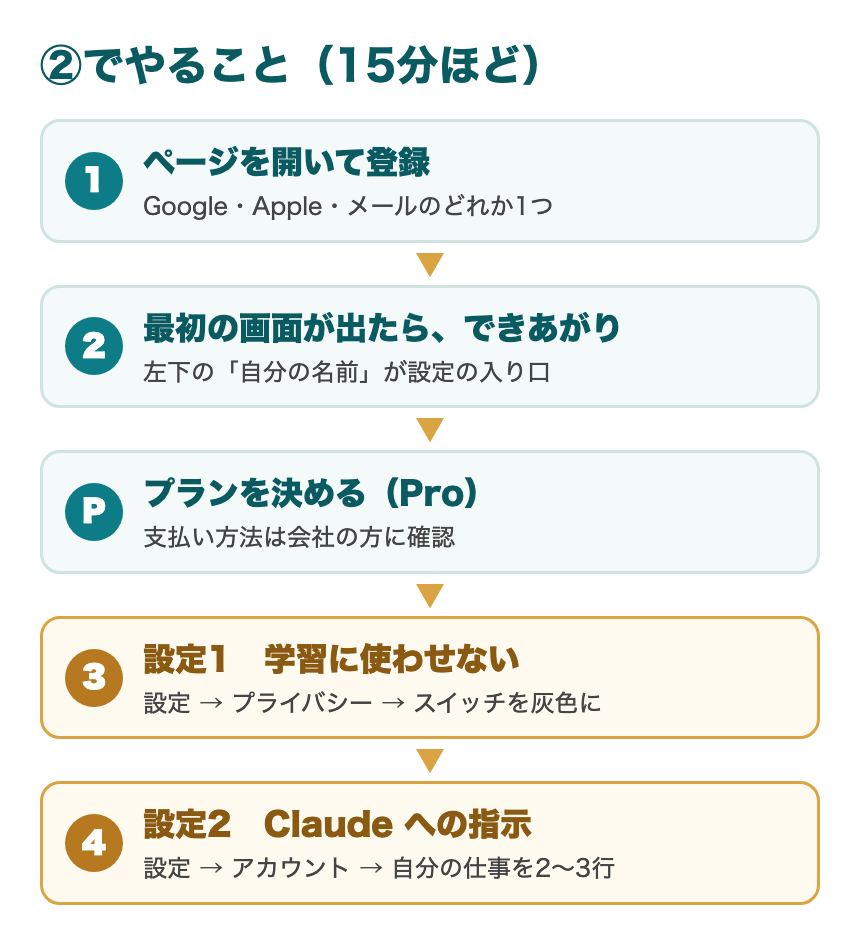
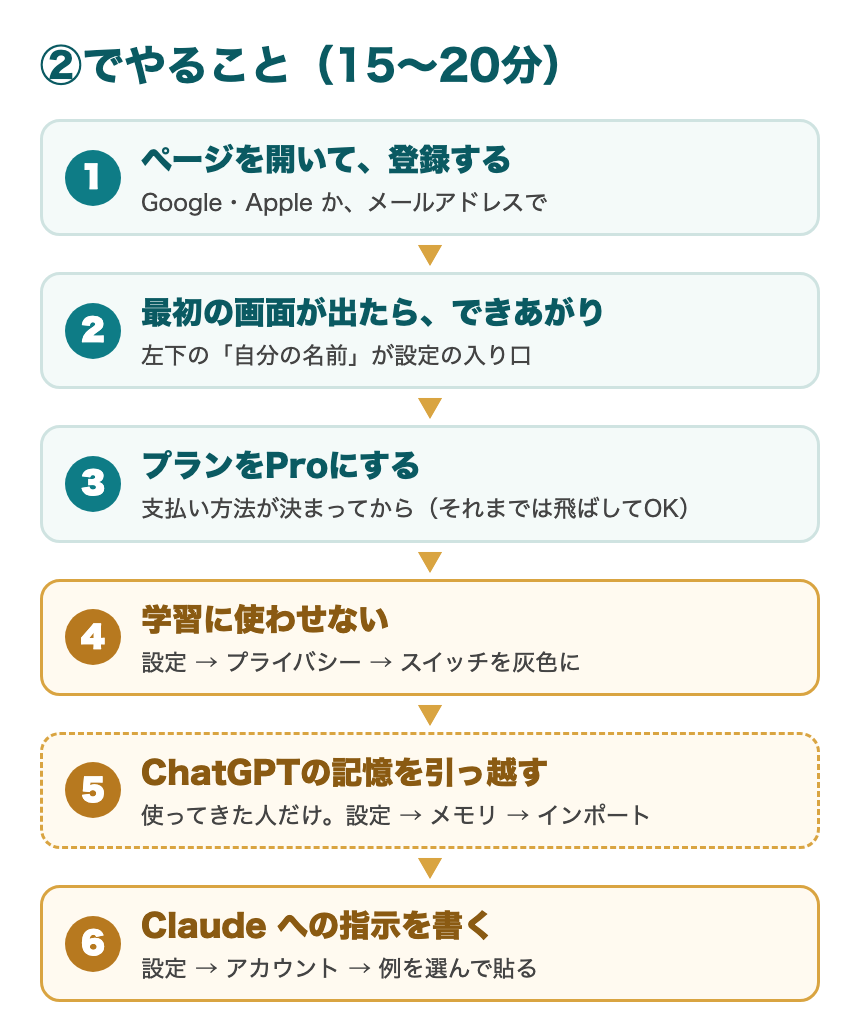
第0回 丁寧版：画面写真（モデル・プラン・使用量・メモリ引っ越し・コネクタ）と本文

Changed region(s): [[0.0302, 0.031, 0.9674, 0.9925]]

diff --git a/kenshu0/src/ch2.html b/kenshu0/src/ch2.html
@@ -1,4 +1,4 @@
-<p>📱 スマホで読んでいる方へ：このページの作業は<strong>パソコンで</strong>。パソコンでの開き方は①の「スマホで見ている方へ」にあります。</p><h2>このページでやること（15分ほど）</h2><ul><li><p>Claudeのアカウントを作る（手順1・2）</p></li><li><p>プランを決める（研修は有料のProを使います）</p></li><li><p>最初にしておく設定を2つ（手順3・4）</p></li></ul><p>MacでもWindowsでも同じ手順です。ブラウザ（Chrome・Edge・Safariなど）で進めます。<strong>作業はパソコンで</strong>どうぞ。写真はMacの画面ですが、Windowsでもボタンの場所と名前は同じです。</p><figure><img src="https://mm738966m-boop.github.io/ai-aibou-shindan/kenshu0/img/fig2b.png"></figure><h2>はじめに：どのメールアドレスで作る？</h2><ul><li><p><strong>仕事で使っているメールアドレス</strong>がおすすめです。研修の後半で、仕事のメールや予定表とClaudeをつなぐことがあり、個人のアドレスだとつなげないことがあります</p></li><li><p>会社がまとめて契約する（会社から「招待メール」が届く）と決まっている場合は、その招待メールから作ります。分からなければ、仕事のアドレスで作っておけば大丈夫です</p></li></ul><h2>手順1　ページを開いて登録する</h2><p>下のリンクを押します。</p><p><a href="https://claude.ai/login">https://claude.ai/login</a></p><figure><img src="https://mm738966m-boop.github.io/ai-aibou-shindan/kenshu0/img/z_login.png"></figure><p>ボタンは3つありますが、登録のしかたは2通り。<strong>どちらか1つ</strong>を選びます。<strong>Gmailを持っていない人・会社のメールがOutlookの人は、Bへ</strong>。</p><h3>A．Google か Apple のアカウントで（ふだんそれでログインしている人）</h3><ol><li><p>「Googleで続ける」または「Appleで続ける」を押す</p></li><li><p>使うアカウントを選ぶ（パスワードを聞かれたら、そのアカウントのものを入れる）→ 手順2へ</p></li></ol><h3>B．メールアドレスで（会社のメールがOutlookの人など。迷ったらこちら）</h3><ol><li><p>「メールアドレスを入力」の欄にアドレスを入れて、「メールで続ける」を押す</p></li><li><p>いつものメールソフト（Outlook・Gmailなど）を開く。Claudeからメールが届きます（件名に「Claude」）</p></li><li><p>メールに<strong>ボタンがあれば押す</strong>。<strong>6桁の番号だけ</strong>が書いてあれば、Claudeの画面に戻って、その番号を入れる → 手順2へ</p></li></ol><p>※ メールが来ないとき：迷惑メールのフォルダを見る → 無ければ5分待って、もう一度「メールで続ける」。</p><h2>手順2　名前を入れて、最初の画面が出たらできあがり</h2><ol><li><p>名前を聞かれたら、ふだんの名前（例：山田 花子）</p></li><li><p>電話番号の確認を求められたら、ショートメール（SMS）が届く携帯の番号を入れ、届いた番号を入れる。会社の携帯でも自分の携帯でもOK（本人確認のためで、ほかの人に表示されることはありません）</p></li><li><p>利用規約が出たら「同意する」</p></li></ol><figure><img src="https://mm738966m-boop.github.io/ai-aibou-shindan/kenshu0/img/z_first.png"></figure><ul><li><p><strong>❶ 入力欄</strong>：ここに話しかけます（③で使います）</p></li><li><p><strong>❷ 左下の自分の名前</strong>：このあとの設定は、ぜんぶここから入ります</p></li></ul><h2>プランを決める（Pro）</h2><p>研修では<strong>有料の「Pro」</strong>を使います。ただし<strong>支払い方法が決まるまでは、押さなくて大丈夫</strong>です。無料のままでも、このページの設定と③の練習、④のアプリを入れるところまでできます。</p><ul><li><p><strong>会社の方に確認する人</strong>：経費を決める方（上司・総務・経理など）に、「AI研修で使うClaudeのProプラン（月22ドル・月払い）を、会社のカードにするか、立て替えて精算にするか」を聞いてください</p></li><li><p><strong>ご自身が決める立場の人</strong>（代表の方など）：そのまま進めてOKです</p></li></ul><p><strong>料金（2026年11月時点）</strong></p><ul><li><p><strong>Pro：月22ドル（月払い）</strong>。日本円でおよそ月3,000円台（為替で変わります）。<strong>研修はこれで十分</strong>。最初は月払いがおすすめです</p></li><li><p>年払いにすると月18ドル分（220ドルを1年分まとめて先払い）</p></li><li><p>Free（無料）／Max（月110ドル〜・1日中使う人向け）もあります。料金ページの細かい項目（「新着」など）は気にしなくて大丈夫です。料金ページの「Claude を試す」ボタンは、押してもすぐに支払いにはなりません</p></li></ul><figure><img src="https://mm738966m-boop.github.io/ai-aibou-shindan/kenshu0/img/z_pricing.png"></figure><p><strong>Proにする手順</strong>（支払い方法が決まってから）</p><ol><li><p>左下の自分の名前を押す</p></li><li><p>「アップグレード」または「すべてのプランを表示」を押す（表示はどちらかです）</p></li></ol><figure><img src="https://mm738966m-boop.github.io/ai-aibou-shindan/kenshu0/img/z_menu_plan.png"></figure><ol start="3"><li><p>「Pro」を選び、<strong>月払い</strong>を選んで、クレジットカードを入れる（カード番号は、ご自身でこの画面に入れてください）</p></li></ol><p>最新の料金は <a href="https://claude.com/ja/pricing">https://claude.com/ja/pricing</a> で確認できます。会社でまとめて契約するプラン（Team）もあります。</p><h2>手順3　設定その1：話した内容を、AIの学習に使わせない</h2><p>仕事の話をする前に、ここだけは済ませておきます。</p><ol><li><p>左下の自分の名前を押す →「<strong>設定</strong>」を押す</p></li></ol><figure><img src="https://mm738966m-boop.github.io/ai-aibou-shindan/kenshu0/img/z_menu_settings.png"></figure><ol start="2"><li><p>左の列の「<strong>プライバシー</strong>」を押す</p></li><li><p>「<strong>AI モデルの改善に協力する</strong>」のスイッチを見る。<strong>青ならクリックして灰色に</strong>。灰色ならそのままでOK</p></li></ol><figure><img src="https://mm738966m-boop.github.io/ai-aibou-shindan/kenshu0/img/z_privacy.png"></figure><p>（スイッチの所を大きくすると↓）</p><figure><img src="https://mm738966m-boop.github.io/ai-aibou-shindan/kenshu0/img/z_privacy_m.png"></figure><p>※ すぐ上の「位置情報メタデータ」のスイッチは、触らなくて大丈夫です。</p><h2>手順4　設定その2：「Claude への指示」に、自分のことを書く</h2><p>書いておくと、毎回説明しなくても話が通じるようになります。</p><ol><li><p>設定の左の列の「<strong>アカウント</strong>」を押す</p></li><li><p>「<strong>Claude への指示</strong>」の欄を見つける（上にある「氏名」や「職種」の欄は、触らなくてOK）</p></li><li><p>下の4つの例から、<strong>自分にいちばん近いものを1つ選び</strong>、灰色の枠の右上の「コピー」を押す → 「Claude への指示」の欄をクリック → 貼り付け（Windowsは Ctrl＋V、Macは command＋V）</p></li><li><p>違う所があれば、そこだけ直す（<strong>そのままでも大丈夫</strong>です。あとからいつでも直せます）</p></li><li><p>欄の外をクリックすると保存されます。右上の × で閉じ、<strong>もう一度開いて文が残っていれば保存できています</strong></p></li></ol><figure><img src="https://mm738966m-boop.github.io/ai-aibou-shindan/kenshu0/img/z_account.png"></figure><p>（書き込んだあとの欄を大きくすると↓）</p><figure><img src="https://mm738966m-boop.github.io/ai-aibou-shindan/kenshu0/img/z_account_m.png"></figure><h3>例：経理</h3><pre><code>小さな会社で、
+<p>📱 スマホで読んでいる方へ<br>このページの作業は<strong>パソコンで</strong>やります。<br>パソコンでの開き方は、①の「スマホで見ている方へ」にあります。</p><h2>このページでやること（15〜20分）</h2><figure><img src="https://mm738966m-boop.github.io/ai-aibou-shindan/kenshu0/img/fig2b.png"></figure><ol><li><p>手順1　ページを開いて、登録する</p></li><li><p>手順2　最初の画面が出たら、アカウントのできあがり</p></li><li><p>手順3　プランをProにする</p></li><li><p>手順4　話した内容を、AIの学習に使わせない</p></li><li><p>手順5　ChatGPT・Geminiの記憶を、引っ越す<br>（使ってきた人だけ）</p></li><li><p>手順6　「Claude への指示」に、自分のことを書く</p></li></ol><p>MacでもWindowsでも、同じ手順です。<br>写真はMacの画面ですが、Windowsでもボタンの場所と名前は同じです。</p><h2>はじめに：どのメールアドレスで作る？</h2><p><strong>仕事で使っているメールアドレス</strong>がおすすめです。<br>研修の後半で、仕事のメールや予定表とClaudeをつなぐことがあります。<br>個人のアドレスだと、あとでつなげないことがあります。</p><p>会社から「招待メール」が届く予定の人は、その招待メールから作ります。<br>分からなければ、仕事のアドレスで作っておけば大丈夫です。</p><h2>手順1　ページを開いて、登録する</h2><p>下のリンクを押します。</p><p><a href="https://claude.ai/login">https://claude.ai/login</a></p><p>こんな画面が出ます。</p><figure><img src="https://mm738966m-boop.github.io/ai-aibou-shindan/kenshu0/img/z_login.png"></figure><p>登録のしかたは2通り。<strong>どちらか1つ</strong>を選びます。<br>下の「デスクトップアプリをダウンロード」は、<strong>今は押しません</strong>（④でやります）。</p><h3>A．Google か Apple で続ける</h3><p>ふだんGoogle（Gmail）かAppleのアカウントでログインしている人向けです。</p><ol><li><p>「Googleで続ける」か「Appleで続ける」を押す</p></li><li><p>使うアカウントを選ぶ<br>（パスワードを聞かれたら、そのアカウントのパスワードを入れる）</p></li><li><p>手順2へ</p></li></ol><h3>B．メールアドレスで続ける</h3><p><strong>Gmailを持っていない人・会社のメールがOutlookの人は、こちら</strong>。<br>迷ったら、こちらでOKです。</p><ol><li><p>「メールアドレスを入力」の欄を押して、アドレスを入れる</p></li><li><p>黒い「メールで続ける」のボタンを押す</p></li><li><p>いつものメール（Outlook・Gmailなど）を開く<br>Claudeからメールが届いています（件名に「Claude」）</p></li><li><p>メールの中に<strong>ボタンがあれば、押す</strong><br><strong>6桁の番号だけ</strong>が書いてあれば、Claudeの画面に戻って、その番号を入れる</p></li><li><p>手順2へ</p></li></ol><p>※ メールが来ないとき<br>迷惑メールのフォルダを見る → 無ければ5分待って、もう一度「メールで続ける」。</p><h2>手順2　最初の画面が出たら、できあがり</h2><p>途中で聞かれたら、画面のとおりに答えます。</p><ul><li><p><strong>名前</strong>：ふだんの名前（例：山田 花子）</p></li><li><p><strong>電話番号</strong>：ショートメール（SMS）が届く携帯の番号を入れ、届いた番号を入れる<br>会社の携帯でも、自分の携帯でもOK<br>（本人確認のためで、ほかの人に表示されることはありません）</p></li><li><p><strong>利用規約</strong>：「同意する」を押す</p></li></ul><p>この画面が出たら、アカウントのできあがりです。</p><figure><img src="https://mm738966m-boop.github.io/ai-aibou-shindan/kenshu0/img/z_first.png"></figure><p><strong>❶ 真ん中の入力欄</strong><br>ここに話しかけます（③で使います）。</p><p><strong>❷ 左下の自分の名前</strong><br>このあとの設定は、ぜんぶ<strong>ここを押して</strong>始めます。</p><h2>手順3　プランをProにする</h2><p>研修では<strong>有料の「Pro（プロ）」</strong>を使います。</p><p><strong>支払い方法が決まるまでは、ここは飛ばしてOK</strong>です。<br>無料のままでも、手順4〜6と③の練習、④のアプリを入れる所までできます。</p><h3>先に確かめること</h3><ul><li><p><strong>会社の方に確認する人</strong><br>経費を決める方（上司・総務・経理など）に、こう聞いてください。<br>「AI研修で使うClaudeのProプラン（月22ドル・月払い）を、会社のカードにしますか、立て替えて精算にしますか」</p></li><li><p><strong>ご自身が決める立場の人</strong>（代表の方など）<br>そのまま進めてOKです</p></li></ul><h3>料金（2026年11月時点）</h3><figure><img src="https://mm738966m-boop.github.io/ai-aibou-shindan/kenshu0/img/z_pricing.png"></figure><ul><li><p><strong>Pro：月22ドル（月払い）</strong><br>日本円でおよそ月3,000円台（為替で変わります）<br><strong>研修はこれで十分</strong>。最初は月払いがおすすめです</p></li><li><p>年払いにすると、月18ドル分（220ドルを1年分まとめて先払い）</p></li><li><p>写真の料金表は説明用です。<strong>料金表の「Claude を試す」は押さなくてOK</strong></p></li></ul><h3>Proにする手順</h3><ol><li><p>左下の自分の名前を押す</p></li><li><p>「アップグレード」か「すべてのプランを表示」を押す<br>（どちらか一方が出ています）</p></li></ol><figure><img src="https://mm738966m-boop.github.io/ai-aibou-shindan/kenshu0/img/z_menu_plan.png"></figure><ol start="3"><li><p>「Pro」を選ぶ</p></li><li><p>「月払い」を選ぶ</p></li><li><p>クレジットカードの番号を入れて、申し込む<br>（カード番号は、ご自身でこの画面に入れてください）</p></li><li><p>左下の名前の横が「Pro」になれば、完了</p></li></ol><h2>手順4　話した内容を、AIの学習に使わせない</h2><p>仕事の話をする前に、<strong>ここだけは必ず</strong>済ませておきます。</p><ol><li><p>左下の自分の名前を押す</p></li><li><p>出てきた一覧の「<strong>設定</strong>」を押す</p></li></ol><figure><img src="https://mm738966m-boop.github.io/ai-aibou-shindan/kenshu0/img/z_menu_settings.png"></figure><ol start="3"><li><p>設定の画面が開いたら、左の列の「<strong>プライバシー</strong>」を押す</p></li><li><p>右側の「<strong>AI モデルの改善に協力する</strong>」のスイッチを見る</p></li></ol><figure><img src="https://mm738966m-boop.github.io/ai-aibou-shindan/kenshu0/img/z_privacy.png"></figure><ol start="5"><li><p>スイッチが<strong>青なら、クリックして灰色に</strong>する<br>もう<strong>灰色なら、そのままでOK</strong></p></li></ol><p>（スイッチの所を大きくすると↓）</p><figure><img src="https://mm738966m-boop.github.io/ai-aibou-shindan/kenshu0/img/z_privacy_m.png"></figure><p>※ すぐ上の「位置情報メタデータ」のスイッチは、触らなくて大丈夫です。<br>※ 設定の画面は、まだ閉じずに、手順5へ進みます。</p><h2>手順5　ChatGPT・Geminiの記憶を、引っ越す</h2><p><strong>ChatGPTやGeminiをよく使ってきた人だけ</strong>やります。<br>使ってこなかった人・たまにしか使っていない人は、<strong>手順6へ飛ばしてOK</strong>です。</p><p>いままでのAIが覚えている「あなたのこと」（仕事・好み・よく頼むこと）を、Claudeに移します。<br>10分ほどです。</p><h3>5-1　Claudeで「インポート」の画面を開く</h3><ol><li><p>設定の左の列の「<strong>メモリ</strong>」を押す（❶）</p></li><li><p>「他のAIプロバイダーからメモリをインポート」の右の「<strong>インポートを開始</strong>」を押す（❷）</p></li></ol><figure><img src="https://mm738966m-boop.github.io/ai-aibou-shindan/kenshu0/img/y_memory.png"></figure><p>※ ほかのスイッチや「エクスポート」は、触らなくて大丈夫です。</p><h3>5-2　出てきた文を、コピーする</h3><p>小さな窓が開きます。</p><figure><img src="https://mm738966m-boop.github.io/ai-aibou-shindan/kenshu0/img/y_import.png"></figure><ol><li><p>❶「<strong>コピー</strong>」を押す</p></li><li><p>この窓は<strong>開いたまま</strong>にしておく</p></li></ol><h3>5-3　ChatGPT（またはGemini）に貼って、送る</h3><ol><li><p>ブラウザで新しいタブを開き、いつも使っているChatGPT（またはGemini）を開く</p></li><li><p>新しいチャットの入力欄をクリックして、貼り付ける<br>（Windowsは Ctrl＋V、Macは command＋V）</p></li><li><p>❷ 送るボタン（↑）を押す</p></li></ol><figure><img src="https://mm738966m-boop.github.io/ai-aibou-shindan/kenshu0/img/y_gpt.png"></figure><h3>5-4　返ってきた文を読んで、消す所を消す</h3><p>あなたについて覚えていることが、まとめて返ってきます。<br>一度、上から読んでください。</p><ul><li><p>古い情報・違う情報は、消す</p></li><li><p><strong>会社の数字、お客さまや取引先の名前、住所、電話番号</strong>が入っていたら、消す</p></li></ul><p>消し方：ChatGPTに「◯◯の部分を消した版を、もう一度出して」と頼むのがいちばん楽です。</p><h3>5-5　Claudeに戻って、貼る</h3><ol><li><p>ChatGPTの返事の下の「コピー」のマーク（四角が2つ重なった形）を押す</p></li><li><p>Claudeのタブに戻る</p></li><li><p>窓の ❸ の欄をクリックして、貼り付ける</p></li><li><p>❹「<strong>メモリに追加</strong>」を押す</p></li></ol><p>これで引っ越しは完了です。<br>ChatGPTもGeminiも使ってきた人は、両方でやってOKです。</p><p>※ 「インポートを開始」が見つからないときは、手順6の「Claude への指示」に、返ってきた文を貼っても大丈夫です。</p><h2>手順6　「Claude への指示」に、自分のことを書く</h2><p>書いておくと、毎回説明しなくても話が通じるようになります。</p><ol><li><p>設定の左の列の「<strong>アカウント</strong>」を押す</p></li><li><p>少し下の「<strong>Claude への指示</strong>」の欄を見つける<br>（上の「氏名」「職種」などの欄は、触らなくてOK）</p></li></ol><figure><img src="https://mm738966m-boop.github.io/ai-aibou-shindan/kenshu0/img/z_account.png"></figure><ol start="3"><li><p>下の4つの例から、<strong>自分にいちばん近いものを1つ</strong>選ぶ</p></li><li><p>その灰色の枠の右上の「コピー」のマークを押す</p></li><li><p>「Claude への指示」の欄をクリックして、貼り付ける</p></li><li><p>違う所があれば、そこだけ直す<br>（<strong>そのままでも大丈夫</strong>。あとからいつでも直せます）</p></li><li><p>欄の外をクリックすると、保存されます</p></li><li><p>右上の × で閉じて、もう一度開き、<strong>文が残っていれば保存できています</strong></p></li></ol><p>（書き込んだあとの欄を大きくすると↓）</p><figure><img src="https://mm738966m-boop.github.io/ai-aibou-shindan/kenshu0/img/z_account_m.png"></figure><h3>例：経理</h3><pre><code>小さな会社で、
 経理と事務を担当しています。
 よくやる仕事は、
 請求書づくりと売上表の入力です。
@@ -22,15 +22,4 @@
 提案書・案内文づくりです。
 返事は短く、要点から先に。
 専門用語には、
-ひとこと説明を添えてください。</code></pre><p>会社名や業種は書いてOK。<strong>取引先の名前・金額は、ここには書きません</strong>。</p><h3>ChatGPT・Geminiをよく使ってきた人だけ（使ってこなかった人・たまにしか使っていない人は飛ばしてOK）</h3><p>いままでのAIに、あなたの自己紹介文を作ってもらい、同じ「Claude への指示」の欄に入れます。</p><ol><li><p>ChatGPT（またはGemini）で新しいチャットを開き、下の文を送る</p></li><li><p>返ってきた文を読み、違う所・古い所を消す。金額や人の名前が残っていたら消す</p></li><li><p>コピーして「Claude への指示」の欄に入れる（上の例文のかわりに、または足して）</p></li></ol><pre><code>私について知っていることを、
-別のAIに伝える自己紹介文として、
-5〜8行の箇条書きにして。
-
-入れること：
-仕事の内容と役割、よく頼むこと、
-好みの文体や返事の長さ、
-気をつけてほしいこと
-
-入れないこと：
-金額、取引先や人の名前、
-住所、電話番号</code></pre><h2>どんなときも入れないもの</h2><ul><li><p><strong>パスワード</strong>（Claudeや他のサービスのもの）</p></li><li><p><strong>クレジットカードの番号</strong>（Proにする支払い画面を除く）</p></li><li><p><strong>ネットバンキングのログイン情報</strong></p></li></ul><p>これらは、Claudeに仕事を頼むのに必要ありません。</p><p>それ以外の会社の情報（<strong>お客さまや取引先の名前・見積や売上の金額・名簿・社内資料</strong>など）を<strong>どこまで入れるかは、1回目に会社の方と一緒に決めます</strong>。決まるまでは入れないでください。これまで他のAIに入れてきたものも同じです。それまでは、③の例文のような、名前や金額のない内容で練習します。</p><h2>困ったときは</h2><ul><li><p><strong>英語の画面が出た</strong> → 左下の名前 →「Language（言語）」→「日本語」。英語のままでも、日本語で話しかければ日本語で返ってきます</p></li><li><p><strong>「Googleで続ける」でパスワードが分からない</strong> → Bのメールアドレスで登録に切り替える</p></li><li><p><strong>それでも進まない</strong> → そのままで大丈夫です。どこで止まったかだけ覚えておいてください。1回目の最初に一緒にやります</p></li></ul><p>ここまでできたら、③へ。<br><a href="https://kinyu-ai-college.vibely.site/courses/28f53777-6b4c-4595-ad7b-767341ede3ba/chapters/3ac3023e-4e74-40da-8d2d-fe0485269658">https://kinyu-ai-college.vibely.site/courses/28f53777-6b4c-4595-ad7b-767341ede3ba/chapters/3ac3023e-4e74-40da-8d2d-fe0485269658</a></p>
+ひとこと説明を添えてください。</code></pre><p>会社名や業種は書いてOKです。<br><strong>取引先の名前・金額は、ここには書きません</strong>。</p><h2>どんなときも入れないもの</h2><ul><li><p><strong>パスワード</strong>（Claudeや、ほかのサービスのもの）</p></li><li><p><strong>クレジットカードの番号</strong>（手順3の支払い画面を除く）</p></li><li><p><strong>ネットバンキングのログイン情報</strong></p></li></ul><p>これらは、Claudeに仕事を頼むのに必要ありません。</p><p>それ以外の会社の情報<br>（<strong>お客さまや取引先の名前・見積や売上の金額・名簿・社内資料</strong>など）<br>をどこまで入れるかは、<strong>1回目に会社の方と一緒に決めます</strong>。<br>決まるまでは、入れないでください。</p><h2>困ったときは</h2><ul><li><p><strong>英語の画面が出た</strong><br>左下の名前 →「Language（言語）」→「日本語」<br>英語のままでも、日本語で話しかければ日本語で返ってきます</p></li><li><p><strong>「Googleで続ける」でパスワードが分からない</strong><br>Bのメールアドレスで登録に切り替える</p></li><li><p><strong>それでも進まない</strong><br>そのままで大丈夫です。どこで止まったかだけ覚えておいてください。<br>1回目の最初に、一緒にやります</p></li></ul><h2>次へ</h2><p>②はここまでです。<br>次は「③ 最初のお願いを、3つしてみる」です。</p><p><a href="https://kinyu-ai-college.vibely.site/courses/28f53777-6b4c-4595-ad7b-767341ede3ba/chapters/3ac3023e-4e74-40da-8d2d-fe0485269658">https://kinyu-ai-college.vibely.site/courses/28f53777-6b4c-4595-ad7b-767341ede3ba/chapters/3ac3023e-4e74-40da-8d2d-fe0485269658</a></p>

diff --git a/kenshu0/src/ch4.html b/kenshu0/src/ch4.html
@@ -1,7 +1,7 @@
-<p>📱 スマホで読んでいる方へ：このページの作業は<strong>パソコンで</strong>。パソコンでの開き方は①の「スマホで見ている方へ」にあります。</p><h2>このページでやること（10分ほど）</h2><ul><li><p>パソコンに、Claudeのアプリ（デスクトップアプリ）を入れる</p></li><li><p>研修でいちばん使う「Code（コード）」の画面を、一度だけ開いてみる</p></li><li><p>中の使い方は、1回目に一緒にやります。今日は<strong>開くところまで</strong>でOK</p></li></ul><p><strong>先に知っておくと安心なこと</strong>：会社のパソコンで「管理者の許可が必要」と出たら、<strong>そこで止めて大丈夫</strong>です。社内のパソコン担当の方に相談するか、1回目に一緒にやりましょう（「このアプリが変更を加えることを許可しますか」に<strong>「はい」「いいえ」だけ</strong>が出るなら、あなたが管理者です。「はい」で進めてOK。<strong>パスワードを聞かれたら</strong>、管理者は別の人です）。</p><p>相談するときの文の例：</p><pre><code>AI研修で使う「Claude」の
+<p>📱 スマホで読んでいる方へ<br>このページの作業は<strong>パソコンで</strong>やります。<br>パソコンでの開き方は、①の「スマホで見ている方へ」にあります。</p><h2>このページでやること（10〜15分）</h2><ol><li><p>手順1　アプリをダウンロードする</p></li><li><p>手順2　パソコンに入れる（Mac／Windows）</p></li><li><p>手順3　アプリでログインする</p></li><li><p>手順4　Code（コード）を一度開いてみる</p></li><li><p>手順5　「連携」の画面を見ておく（見るだけ）</p></li></ol><p>中の使い方は、1回目に一緒にやります。<br>今日は<strong>開いて、見るところまで</strong>でOKです。</p><h2>なぜアプリを入れるの？</h2><p><strong>ブラウザのClaude（チャット）</strong><br>＝ 話す相手。③でやったこと。</p><p><strong>アプリのCode</strong><br>＝ 作業する相手。<br>パソコンのフォルダを見ながら、文書や表を作って、そこに置いていってくれます。</p><figure><img src="https://mm738966m-boop.github.io/ai-aibou-shindan/kenshu0/img/fig_code.png"></figure><p>研修で一緒に作る「会社メモ」や「下書きの型」は、あなたのパソコンに残ります。<br>（図の請求先や金額は例です。実際の会社の情報を入れるのは、1回目に線引きを決めてから）</p><h2>先に知っておくと安心なこと</h2><p>会社のパソコンで「<strong>管理者の許可が必要</strong>」と出たら、<strong>そこで止めて大丈夫</strong>です。</p><ul><li><p>「このアプリがデバイスに変更を加えることを許可しますか」に、<strong>「はい」「いいえ」だけ</strong>が出る<br>→ あなたが管理者です。「はい」で進めてOK</p></li><li><p><strong>パスワードを聞かれた</strong><br>→ 管理者は別の人です。社内のパソコン担当の方に、下の文で頼むか、1回目に一緒にやりましょう</p></li></ul><pre><code>AI研修で使う「Claude」の
 デスクトップアプリ（Anthropic社）を、
 このパソコンに入れたいです。
 ダウンロード元：
 https://claude.com/ja/download
 インストールの許可を
-お願いできますか。</code></pre><h2>なぜアプリを入れるの？</h2><ul><li><p><strong>ブラウザのClaude（チャット）</strong>＝話す相手。③でやったこと</p></li><li><p><strong>アプリのCode</strong>＝作業する相手。パソコンのフォルダを見ながら、文書や表を作って、そこに置いていってくれます</p></li></ul><figure><img src="https://mm738966m-boop.github.io/ai-aibou-shindan/kenshu0/img/fig_code.png"></figure><p>研修で一緒に作る「会社メモ」や「下書きの型」は、あなたのパソコンに残ります（図の請求先や金額は例です。実際に会社の情報を入れるのは、1回目に線引きを決めてから）。</p><figure><img src="https://mm738966m-boop.github.io/ai-aibou-shindan/kenshu0/img/z_app_install.png"></figure><h2>手順1　ダウンロードする</h2><p>パソコンで、下のリンクを押します。</p><p><a href="https://claude.com/ja/download">https://claude.com/ja/download</a></p><p>少し下の「デスクトップ」という枠で、自分のパソコンの行の「ダウンロード」を押します。</p><figure><img src="https://mm738966m-boop.github.io/ai-aibou-shindan/kenshu0/img/z_download.png"></figure><ul><li><p><strong>Mac</strong>：「macOS」の行</p></li><li><p><strong>Windows</strong>：ふつうは「<strong>Windows</strong>」の行（「arm 64」は特別なパソコン用なので選ばない）。会社のパソコンでうまくいかないときは「Microsoft Store」からでも入れられます</p></li></ul><h2>手順2　パソコンに入れる</h2><h3>Macのとき</h3><ol><li><p>ダウンロードした「Claude」のファイル（Safariなら右上の ↓ マーク、またはFinderの「ダウンロード」）をダブルクリック</p></li><li><p>小さな窓が開き、Claudeのマークと「アプリケーション」のフォルダが並んで出ます。Claudeのマークを、「アプリケーション」のフォルダへ引っぱって入れる</p></li><li><p>Launchpad（または Finder の「アプリケーション」）から Claude を開く。「インターネットからダウンロードされたアプリです。開いてもよろしいですか？」と出たら「開く」（「開発元を確認できません」と出たら、システム設定 →「プライバシーとセキュリティ」→ 下の方の「このまま開く」）</p></li></ol><h3>Windowsのとき</h3><ol><li><p>ダウンロードしたファイル（「Claude Setup」など）を開く。Edgeなら右上に出る ↓ マークを押すと一覧が出ます。「保存」「開く」が出たら「開く」。見当たらなければ、エクスプローラーの「ダウンロード」フォルダ</p></li><li><p>「WindowsによってPCが保護されました」と青い画面が出たら、「詳細情報」→「実行」。会社のパソコンで実行できなければ、そこで止めてOK</p></li><li><p>「このアプリがデバイスに変更を加えることを許可しますか？」と出たら「はい」（会社のパソコンで管理者の許可を求められたら、上の「先に知っておくと安心なこと」のとおり、そこで止めてOK）</p></li><li><p>そのまま入って、Claudeが立ち上がります。次からは、スタートメニュー（左下のWindowsマーク）で「Claude」と入れて開きます</p></li></ol><h2>手順3　アプリでログインする</h2><ol><li><p>アプリの「ログイン」（または「Googleで続ける」など）を押すと、<strong>ブラウザが別に開きます</strong>（びっくりしなくて大丈夫です）</p></li><li><p>②と同じ方法でログインする</p></li><li><p>「アプリを開くか」の確認が出たら、開く方を押す。<strong>研修ではここで止まる人が多かった所です</strong></p></li></ol><ul><li><p>Chrome・Edge：「Claude を開きますか？」→「<strong>Claude を開く</strong>」</p></li><li><p>Safari：「このWebページで"Claude"を開くことを許可しますか？」→「<strong>許可</strong>」</p></li></ul><ol start="4"><li><p>アプリの画面に戻り、②で見たのと同じ画面が出れば完了</p></li></ol><h2>手順4　Code（コード）を見てみる</h2><p>アプリの<strong>左上</strong>に、ボタンが2つ並んでいます。</p><figure><img src="https://mm738966m-boop.github.io/ai-aibou-shindan/kenshu0/img/z_switch.png"></figure><ul><li><p>❶ 吹き出しの形＝<strong>チャット</strong>（③でやった画面）</p></li><li><p>❷ &lt;/&gt; の記号＝<strong>Code（コード）</strong>。オレンジの点が付いていることがありますが、気にしなくてOK</p></li></ul><p>❷を押してみてください。</p><ul><li><p>フォルダを選ぶ画面や、「フォルダへのアクセスを許可しますか」などが出たら、<strong>今日は何も選ばずに閉じて大丈夫</strong>です（キャンセル、または右上の ×）</p></li><li><p>まだ無料のままの人は、「アップグレード」などの表示が出ることがあります。そのときも、見るだけでOKです</p></li><li><p>左上の❶を押せば、いつでもチャットに戻れます</p></li></ul><h2>これで準備は完了です</h2><p>1回目の前に、ここまでできているか確かめてください（できていなくても大丈夫。1回目の最初に一緒にやります）。</p><ul><li><p>□ アカウントができた（Proは、支払い方法が決まっていればProに）</p></li><li><p>□ 設定1：「AI モデルの改善に協力する」が灰色（オフ）</p></li><li><p>□ 設定2：「Claude への指示」に自分の仕事を書いた</p></li><li><p>□ 最初のお願いを3つ送った</p></li><li><p>□ パソコンにアプリを入れて、Codeを一度開いた</p></li></ul><h2>1回目に、頭の中に用意してきてほしいもの</h2><ul><li><p>③の1つ目のお願いで、「これは助かりそう」と思った答え</p></li><li><p>いまの仕事で、時間がかかっていると感じることを1つ（上の図のように、それをCodeで「仕事の形」にしていきます）</p></li><li><p>パソコンと、Claudeにログインできる状態</p></li></ul><p>資料を作ったり、まとめたりする必要はありません。お会いできるのを楽しみにしています。</p>
+お願いできますか。</code></pre><h2>手順1　アプリをダウンロードする</h2><p>パソコンで、下のリンクを押します。</p><p><a href="https://claude.com/ja/download">https://claude.com/ja/download</a></p><p>ページを少し下へスクロールすると、「デスクトップ」という枠があります。<br>自分のパソコンの行の「<strong>ダウンロード</strong>」を押します。</p><figure><img src="https://mm738966m-boop.github.io/ai-aibou-shindan/kenshu0/img/z_download.png"></figure><ul><li><p><strong>Mac</strong>：「macOS」の行（Ⓜ）</p></li><li><p><strong>Windows</strong>：ふつうは「Windows」の行（Ⓦ）<br>「arm 64」は特別なパソコン用なので、選びません<br>会社のパソコンでうまくいかないときは「Microsoft Store」からでも入れられます</p></li></ul><p>※ 同じページの「モバイル」（スマホ用）や「拡張機能」などは、<strong>今は押さなくてOK</strong>です。</p><h2>手順2　パソコンに入れる</h2><figure><img src="https://mm738966m-boop.github.io/ai-aibou-shindan/kenshu0/img/z_app_install.png"></figure><h3>Macのとき</h3><ol><li><p>ダウンロードした「Claude」のファイルを、ダブルクリックで開く<br>（Safariなら右上の ↓ マーク、またはFinderの「ダウンロード」フォルダにあります）</p></li><li><p>小さな窓が開きます<br>Claudeのマークと「アプリケーション」のフォルダが並んでいます</p></li><li><p>Claudeのマークを、「アプリケーション」のフォルダへ<strong>引っぱって入れる</strong></p></li><li><p>Launchpad（または Finder の「アプリケーション」）から、Claude を開く</p></li><li><p>「インターネットからダウンロードされたアプリです。開いてもよろしいですか？」と出たら「<strong>開く</strong>」</p></li></ol><p>※「開発元を確認できません」と出たとき<br>システム設定 →「プライバシーとセキュリティ」→ 下の方の「このまま開く」</p><h3>Windowsのとき</h3><ol><li><p>ダウンロードしたファイル（「Claude Setup」など）を開く<br>Edgeなら、右上に出る ↓ マークを押すと一覧が出ます<br>「保存」「開く」が出たら「<strong>開く</strong>」<br>見当たらなければ、エクスプローラーの「ダウンロード」フォルダ</p></li><li><p>「WindowsによってPCが保護されました」と青い画面が出たら<br>「詳細情報」→「実行」</p></li><li><p>「このアプリがデバイスに変更を加えることを許可しますか？」と出たら「<strong>はい</strong>」<br>（パスワードを聞かれたら、上の「先に知っておくと安心なこと」へ）</p></li><li><p>そのまま入って、Claudeが立ち上がります</p></li><li><p>次からは、スタートメニュー（左下のWindowsマーク）で「Claude」と入れて開きます</p></li></ol><h2>手順3　アプリでログインする</h2><ol><li><p>アプリの「ログイン」（または「Googleで続ける」など）を押す</p></li><li><p><strong>ブラウザが別に開きます</strong>（びっくりしなくて大丈夫です）</p></li><li><p>②と同じ方法でログインする</p></li><li><p>「アプリを開くか」の確認が出たら、開く方を押す<br><strong>研修では、ここで止まる人が多かった所です</strong></p></li></ol><ul><li><p>Chrome・Edge：「Claude を開きますか？」→「<strong>Claude を開く</strong>」</p></li><li><p>Safari：「このWebページで"Claude"を開くことを許可しますか？」→「<strong>許可</strong>」</p></li></ul><ol start="5"><li><p>アプリの画面に戻り、②で見たのと同じ画面が出れば完了</p></li></ol><h2>手順4　Code（コード）を一度開いてみる</h2><p>アプリの<strong>左上</strong>に、小さなボタンが2つ並んでいます。<br>（①で見たのと同じです）</p><figure><img src="https://mm738966m-boop.github.io/ai-aibou-shindan/kenshu0/img/y_chat_code.png"></figure><ol><li><p>❷ &lt;/&gt; のボタンを押す</p></li><li><p>左上の表示が「Code」に変われば、Codeの画面です</p></li></ol><p>このあと、こんな画面が出ることがあります。<br><strong>今日は、どれも何も選ばずに閉じて大丈夫</strong>です（「キャンセル」か、右上の ×）。</p><ul><li><p>フォルダを選ぶ画面</p></li><li><p>「フォルダへのアクセスを許可しますか」</p></li><li><p>「アップグレード」（まだ無料のままの人）</p></li></ul><p>❶ 吹き出しのボタンを押せば、いつでもチャットに戻れます。<br>ボタンの横のオレンジの点は、気にしなくてOKです。</p><h2>手順5　「連携」の画面を見ておく（見るだけ）</h2><p>Claudeは、Gmail・Googleカレンダー・Googleドライブ・Microsoft 365（Outlook）などと<strong>つなぐ</strong>ことができます。<br>これを「連携（コネクタ）」と呼びます。<br>つなぐと、「今週の予定を見て」「このメールに返事の下書きを」と頼めるようになります。</p><p>どこにあるかだけ、見ておきましょう。</p><ol><li><p>左下の自分の名前 →「設定」</p></li><li><p>左の列の下の方の「<strong>コネクタ</strong>」→ 上の「<strong>探索</strong>」</p></li></ol><figure><img src="https://mm738966m-boop.github.io/ai-aibou-shindan/kenshu0/img/y_connect.png"></figure><p>❶ のように、つなげるものが並んでいます。<br>右上の「＋」がつなぐボタン、「✓」はつないであるしるしです。</p><p><strong>今日は、つながなくてOK</strong>です。<br>仕事のメールや予定をつなぐかどうかは、<strong>1回目に会社の方と線引きを決めてから</strong>、一緒にやります。</p><h2>これで準備は完了です</h2><p>1回目の前に、ここまでできているか確かめてください。<br>（できていなくても大丈夫。1回目の最初に一緒にやります）</p><ul><li><p>□ アカウントができた<br>（Proは、支払い方法が決まっていればProに）</p></li><li><p>□「AI モデルの改善に協力する」が灰色（オフ）</p></li><li><p>□（使ってきた人だけ）ChatGPT・Geminiの記憶を引っ越した</p></li><li><p>□「Claude への指示」に、自分の仕事を書いた</p></li><li><p>□ 最初のお願いを3つ送った</p></li><li><p>□ パソコンにアプリを入れて、Codeを一度開いた</p></li></ul><h2>1回目に、頭の中に用意してきてほしいもの</h2><ul><li><p>③の1つ目のお願いで、「これは助かりそう」と思った答え</p></li><li><p>いまの仕事で、時間がかかっていると感じることを1つ<br>（上の図のように、それをCodeで「仕事の形」にしていきます）</p></li><li><p>パソコンと、Claudeにログインできる状態</p></li></ul><p>資料を作ったり、まとめたりする必要はありません。<br>お会いできるのを、楽しみにしています。</p>

diff --git a/kenshu0/src/ch1.html b/kenshu0/src/ch1.html
@@ -1,1 +1,1 @@
-<p><strong>Claudeは、話すだけでなく、あなたの仕事を「形にして手元に残す」ところまでやってくれるAIです。</strong>研修では、それをご自身の仕事で一緒に作ります（下の「よくある疑問」に図があります）。</p><h2>この動画で分かること</h2><ul><li><p>Claudeは、文章で話しかけると文章で返してくる相手。返ってくるのは下書きで、確かめるのは人</p></li><li><p>研修が終わったとき、手元に残るもの</p></li><li><p>準備としてお願いするのは、この動画4本（手を動かす時間を入れて、全部で40分〜1時間ほど）</p></li></ul><h2>スマホで見ている方へ</h2><p>動画と説明は、スマホで見て大丈夫です。手を動かすのは<strong>パソコン</strong>で。</p><p>パソコンでこのページを開くには：スマホの画面いちばん上のアドレス欄を長押し →「コピー」（iPhoneのSafariは、画面の共有ボタン □↑ →「コピー」）→ 自分あてのメールかLINEに貼って送る → パソコンでそのメール（LINE）を開いて、リンクを押します。</p><h2>この4本の進め方</h2><ol><li><p><strong>①（このページ）</strong>動画を見る（3分）</p></li><li><p><strong>② アカウントを作って、設定を2つ</strong>（15分ほど）<br><a href="https://kinyu-ai-college.vibely.site/courses/28f53777-6b4c-4595-ad7b-767341ede3ba/chapters/f5fc1345-3011-459d-92dd-db4422401434">https://kinyu-ai-college.vibely.site/courses/28f53777-6b4c-4595-ad7b-767341ede3ba/chapters/f5fc1345-3011-459d-92dd-db4422401434</a></p></li><li><p><strong>③ 最初のお願いを、3つしてみる</strong>（5分ほど）<br><a href="https://kinyu-ai-college.vibely.site/courses/28f53777-6b4c-4595-ad7b-767341ede3ba/chapters/3ac3023e-4e74-40da-8d2d-fe0485269658">https://kinyu-ai-college.vibely.site/courses/28f53777-6b4c-4595-ad7b-767341ede3ba/chapters/3ac3023e-4e74-40da-8d2d-fe0485269658</a></p></li><li><p><strong>④ パソコンにアプリを入れて、Codeを見てみる</strong>（10分ほど）<br><a href="https://kinyu-ai-college.vibely.site/courses/28f53777-6b4c-4595-ad7b-767341ede3ba/chapters/e9b620d9-7096-4350-abbc-97b68354cb49">https://kinyu-ai-college.vibely.site/courses/28f53777-6b4c-4595-ad7b-767341ede3ba/chapters/e9b620d9-7096-4350-abbc-97b68354cb49</a></p></li></ol><p>4本とも、どなたにも見ていただく内容です。途中で詰まったら、そのままで大丈夫。1回目の最初の時間で、一緒に片づけます。</p><h2>研修が終わったとき、手元に残るもの</h2><figure><img src="https://mm738966m-boop.github.io/ai-aibou-shindan/kenshu0/img/fig1.png"></figure><ul><li><p><strong>会社のことを伝えてあるClaude</strong><br>毎回ゼロから説明しなくても、話が通じる状態</p></li><li><p><strong>自分の仕事の、下書きの型</strong><br>よくやる仕事を、頼めば下書きが出てくる形に</p></li><li><p><strong>自分で読み返せる手順書</strong><br>研修が終わったあとも、同じことが自分でできる</p></li></ul><h2>研修の進め方</h2><ul><li><p>画面を見ながら、その場で一緒に作ります。題材は、ご自身の実際の仕事です</p></li><li><p>1回目で会社のことを伝え、2回目からは仕事を1つずつ下書きの型にし、最後の回で自動で回る形にして手順書に残します</p></li></ul><h2>よくある疑問</h2><h3>チャットとCode（コード）は何がちがう？</h3><ul><li><p><strong>チャット</strong>：話しかけて、文章を返してもらう画面。③の練習はこちら</p></li><li><p><strong>Code（コード）</strong>：パソコンのフォルダを見ながら、文書や表を作って置いていってくれる画面。プログラムを書くわけではなく、頼むのは日本語です。<strong>研修ではほとんどこちらを使います</strong>（④で一度だけ開いてみます）</p></li></ul><figure><img src="https://mm738966m-boop.github.io/ai-aibou-shindan/kenshu0/img/fig_code.png"></figure><p>ChatGPTなど、ふだんのチャットのAIとちがうのはここです。<strong>話すだけでなく、仕事の形にして手元に残してくれる</strong>。研修では、ご自身の仕事でこれを一緒に作ります。</p><h3>モデルって？</h3><p>Claudeの「頭の種類」です。画面で選べますが、最初は変えなくて大丈夫です（選び方は1回目に）。</p><h3>無料と有料は？ 使える量は？</h3><p>研修では有料の「Pro」を使います（くわしくは②）。有料でも、一度に使える量には上限があり、5時間ごと・1週間ごとに戻ります。「上限に達しました」と出たら、少し時間をおけばまた使えます。</p><p>次は「② アカウントを作って、設定を2つ」へ進んでください。<br><a href="https://kinyu-ai-college.vibely.site/courses/28f53777-6b4c-4595-ad7b-767341ede3ba/chapters/f5fc1345-3011-459d-92dd-db4422401434">https://kinyu-ai-college.vibely.site/courses/28f53777-6b4c-4595-ad7b-767341ede3ba/chapters/f5fc1345-3011-459d-92dd-db4422401434</a></p>
+<h2>このページでわかること</h2><ul><li><p>Claude（クロード）が、どんなAIか</p></li><li><p>研修が終わったとき、手元に残るもの</p></li><li><p>画面のどこに何があるか<br>（チャットとCode・モデル・プランと使える量）</p></li></ul><p>このページは<strong>読むだけ</strong>です。<br>まだ何も押さなくて大丈夫です。</p><h2>準備は、この4本です</h2><p>上から順に、1本ずつ進めます。<br>全部で40分〜1時間ほどです。</p><ol><li><p><strong>Claudeって何？</strong>（いま見ているページ）<br>動画3分＋読むだけ</p></li><li><p><strong>アカウントを作って、設定を2つ</strong><br>15〜20分。ここから手を動かします</p></li><li><p><strong>最初のお願いを、3つしてみる</strong><br>5分</p></li><li><p><strong>パソコンにアプリを入れて、Codeを見てみる</strong><br>10分</p></li></ol><p>次のページへ進むリンクは、各ページの<strong>いちばん下に1つだけ</strong>あります。<br>まずは、このページの<strong>いちばん上の動画</strong>から見てください。</p><h2>スマホで見ている方へ</h2><p>動画と説明は、スマホで見て大丈夫です。<br>②からの<strong>手を動かす所は、パソコンで</strong>やります。</p><p>パソコンでこのページを開くには：</p><ol><li><p>スマホの画面いちばん上の、アドレスの欄を長押し<br>→「コピー」<br>（iPhoneのSafariは、共有ボタン □↑ →「コピー」）</p></li><li><p>自分あてのメールかLINEに貼って、送る</p></li><li><p>パソコンでそのメール（LINE）を開いて、リンクを押す</p></li></ol><h2>Claudeは、どんなAI？</h2><p>文章で話しかけると、文章で返してくれる相手です。<br>返ってくるのは<strong>下書き</strong>。<br>最後に確かめるのは、人です。</p><p>ふだんのチャットのAIとちがうのは、<br><strong>話すだけでなく、仕事を「形にして手元に残す」</strong>ところまでやってくれることです。</p><figure><img src="https://mm738966m-boop.github.io/ai-aibou-shindan/kenshu0/img/fig_code.png"></figure><p>研修では、ご自身の仕事で、これを一緒に作ります。</p><h2>研修が終わったとき、手元に残るもの</h2><figure><img src="https://mm738966m-boop.github.io/ai-aibou-shindan/kenshu0/img/fig1.png"></figure><ol><li><p><strong>会社のことを伝えてあるClaude</strong><br>毎回ゼロから説明しなくても、話が通じる</p></li><li><p><strong>自分の仕事の、下書きの型</strong><br>よくやる仕事を、頼めば下書きが出てくる</p></li><li><p><strong>自分で読み返せる手順書</strong><br>研修のあとも、同じことが自分でできる</p></li></ol><h2>画面のどこに何がある？（見るだけ）</h2><p>ここからは、②でアカウントを作ったあとに出てくる画面の説明です。<br>いまは<strong>写真を見るだけ</strong>でOKです。</p><h3>1．チャットとCode（コード）</h3><p>画面の<strong>左上</strong>に、小さなボタンが2つ並んでいます。</p><figure><img src="https://mm738966m-boop.github.io/ai-aibou-shindan/kenshu0/img/y_chat_code.png"></figure><p><strong>❶ 吹き出しのボタン ＝ チャット</strong><br>話しかけて、文章を返してもらう画面です。<br>③の練習は、こちらでやります。</p><p><strong>❷ &lt;/&gt; のボタン ＝ Code（コード）</strong><br>パソコンのフォルダを見ながら、文書や表を作って置いていってくれる画面です。<br>プログラムを書くわけではなく、頼むのは日本語です。<br><strong>研修では、ほとんどこちらを使います。</strong><br>④で、一度だけ開いてみます。</p><h3>2．モデル（Claudeの「頭の種類」）</h3><p>入力欄の<strong>右下</strong>に、モデルの名前が出ています。</p><figure><img src="https://mm738966m-boop.github.io/ai-aibou-shindan/kenshu0/img/y_model.png"></figure><p>❶ モデルの名前（例：Opus 5.5）を押すと、一覧が出ます。<br><strong>最初は変えなくて大丈夫</strong>です。<br>出ているもののままで使います（選び方は1回目に）。</p><h3>3．無料か有料か（プラン）</h3><p>画面の<strong>左下</strong>、自分の名前の横に、いまのプランが出ています。</p><figure><img src="https://mm738966m-boop.github.io/ai-aibou-shindan/kenshu0/img/y_plan_where.png"></figure><p>研修では、有料の<strong>Pro（プロ）</strong>を使います。<br>Proにする手順は、②にあります。</p><h3>4．使える量には上限がある</h3><p>有料でも、一度に使える量には上限があります。<br>左下の自分の名前 →「使用量」で、どれくらい使ったかが見られます。</p><figure><img src="https://mm738966m-boop.github.io/ai-aibou-shindan/kenshu0/img/y_usage.png"></figure><p>上限は、<strong>5時間ごと</strong>と<strong>1週間ごと</strong>に元に戻ります。<br>「上限に達しました」と出たら、少し時間をおけば、また使えます。</p><h2>途中で詰まったら</h2><p>そのままで大丈夫です。<br>どこで止まったかだけ、覚えておいてください。<br>1回目の最初の時間に、一緒に片づけます。</p><h2>次へ</h2><p>①はここまでです。<br>次は「② アカウントを作って、設定を2つ」です。</p><p><a href="https://kinyu-ai-college.vibely.site/courses/28f53777-6b4c-4595-ad7b-767341ede3ba/chapters/f5fc1345-3011-459d-92dd-db4422401434">https://kinyu-ai-college.vibely.site/courses/28f53777-6b4c-4595-ad7b-767341ede3ba/chapters/f5fc1345-3011-459d-92dd-db4422401434</a></p>

diff --git a/kenshu0/src/ch3.html b/kenshu0/src/ch3.html
@@ -1,11 +1,11 @@
-<p>📱 スマホで読んでいる方へ：このページの作業は<strong>パソコンで</strong>。パソコンでの開き方は①の「スマホで見ている方へ」にあります。</p><h2>このページでやること（5分ほど）</h2><ul><li><p>Claudeに、最初のお願いを3つしてみる</p></li><li><p>頼む文は下の灰色の枠にあります。コピーして入れるだけ</p></li><li><p>話しかけ方のコツは1つだけ。<strong>人に頼むのと同じ言葉で書く</strong></p></li></ul><h2>練習は、名前や金額のない例で</h2><p>今日の練習は、下の例文のように、名前や金額の入っていない内容で進めます。パスワード・カードの番号・ネットバンキングのログイン情報は、どんなときも入れません。会社の情報をどこまで入れるかは、1回目に会社の方と一緒に決めます。</p><h2>やり方（3つとも同じです）</h2><figure><img src="https://mm738966m-boop.github.io/ai-aibou-shindan/kenshu0/img/steps3b.png"></figure><ol><li><p>パソコンでClaudeを開く。<a href="https://claude.ai/">https://claude.ai/</a>（②で見た最初の画面が出ます。ログイン画面が出たら、②と同じ方法でログイン）</p></li><li><p>下の灰色の枠の右上の「コピー」を押す（なければ、文字をなぞって選び、Macは command＋C、Windowsは Ctrl＋C）</p></li><li><p>Claudeの真ん中の入力欄を1回クリックして、貼り付ける（Macは command＋V、Windowsは Ctrl＋V）</p></li><li><p><strong>Enterキー</strong>で送る（入力欄の右下に出る ↑ のボタンを押しても送れます）。返事は数秒〜十数秒で出てきます</p></li></ol><figure><img src="https://mm738966m-boop.github.io/ai-aibou-shindan/kenshu0/img/z_typed.png"></figure><p>※ 文の途中で改行したいときは <strong>Shift＋Enter</strong>（Shiftを押したまま Enter）。うっかり途中で送ってしまっても大丈夫です。続けて残りを送れば、つなげて読んでくれます。</p><p>※ 2つ目・3つ目は、同じ会話の続きに送っても、左上の「新規作成」で新しく始めても、どちらでも大丈夫です。</p><h2>1つ目　自分の仕事を説明して、聞いてみる</h2><p>貼ったあと、「〇〇」をダブルクリックして、ご自身の仕事を打ち込んでから送ってください。</p><pre><code>私は、小さな会社で
+<p>📱 スマホで読んでいる方へ<br>このページの作業は<strong>パソコンで</strong>やります。<br>パソコンでの開き方は、①の「スマホで見ている方へ」にあります。</p><h2>このページでやること（5分ほど）</h2><p>Claudeに、最初のお願いを3つしてみます。</p><ol><li><p>自分の仕事を説明して、聞いてみる</p></li><li><p>メールの文を、ていねいに直してもらう</p></li><li><p>今月やることを、表にしてもらう</p></li></ol><p>頼む文は、下の灰色の枠に用意してあります。<br><strong>コピーして、貼って、送るだけ</strong>です。</p><p>話しかけ方のコツは1つだけ。<br><strong>人に頼むのと同じ言葉で書く</strong>こと。<br>きれいな文でなくても、敬語でなくても大丈夫です。</p><h2>練習は、名前や金額のない例で</h2><p>今日の練習は、下の例文のように、名前や金額の入っていない内容で進めます。</p><p>パスワード・カードの番号・ネットバンキングのログイン情報は、どんなときも入れません。<br>会社の情報をどこまで入れるかは、1回目に会社の方と一緒に決めます。</p><h2>やり方（3つとも同じ）</h2><figure><img src="https://mm738966m-boop.github.io/ai-aibou-shindan/kenshu0/img/steps3b.png"></figure><h3>手順1　Claudeを開く</h3><p>パソコンで、下のリンクを押します。</p><p><a href="https://claude.ai/">https://claude.ai/</a></p><p>②で見た最初の画面が出ます。<br>（ログインの画面が出たら、②と同じ方法でログイン）</p><h3>手順2　文をコピーする</h3><p>下の灰色の枠の<strong>右上の「コピー」のマーク</strong>を押します。</p><p>マークが無いときは、枠の文字をなぞって選びます。<br>そのあと、Macは command＋C、Windowsは Ctrl＋C を押します。</p><h3>手順3　Claudeに貼り付ける</h3><ol><li><p>Claudeの画面の、真ん中の入力欄を1回クリック</p></li><li><p>貼り付ける<br>（Macは command＋V、Windowsは Ctrl＋V）</p></li></ol><h3>手順4　送る</h3><p><strong>Enterキー</strong>を押すと、送られます。<br>入力欄の右下の ↑ のボタンを押しても送れます。</p><figure><img src="https://mm738966m-boop.github.io/ai-aibou-shindan/kenshu0/img/z_typed.png"></figure><p>返事は、数秒〜十数秒で出てきます。</p><p>※ 文の途中で改行したいときは、<strong>Shift＋Enter</strong>（Shiftを押したまま Enter）<br>※ うっかり途中で送ってしまっても大丈夫。続けて残りを送れば、つなげて読んでくれます<br>※ 2つ目・3つ目は、同じ会話の続きに送ってOKです</p><h2>1つ目　自分の仕事を説明して、聞いてみる</h2><pre><code>私は、小さな会社で
 〇〇の仕事をしています。
-手伝えそうなことはありますか？</code></pre><p>〇〇の例：「経理と事務」「営業事務」「総務」「会社の代表として、社員への連絡や提案書づくり」</p><p>いくつか答えが返ってきます。「これは助かりそう」と思ったものを1つ、覚えておいてください（1回目にお聞きします）。</p><h2>2つ目　メールの文を直してもらう</h2><p>このまま送って大丈夫です。1行目が「お願い」、2行目からが「直してほしい文」です。</p><pre><code>これを、ていねいな文に直して。
+手伝えそうなことはありますか？</code></pre><p>貼ったあと、「〇〇」を<strong>ダブルクリック</strong>すると、〇〇が選ばれます。<br>そのまま、ご自身の仕事を打ち込んでから送ってください。</p><p>〇〇の例：<br>「経理と事務」「営業事務」「総務」<br>「会社の代表として、社員への連絡や提案書づくり」</p><p>いくつか答えが返ってきます。<br>「これは助かりそう」と思ったものを1つ、覚えておいてください。<br>（1回目にお聞きします）</p><h2>2つ目　メールの文を、ていねいに直してもらう</h2><p>このまま送って大丈夫です。<br>1行目が「お願い」、2行目からが「直してほしい文」です。</p><pre><code>これを、ていねいな文に直して。
 
 先日はありがとうございました。
 資料は来週お送りします。
-よろしくお願いします。</code></pre><p>こんな返事が出れば成功です（言い回しは毎回少し変わります）。</p><figure><img src="https://mm738966m-boop.github.io/ai-aibou-shindan/kenshu0/img/z_reply_mail.png"></figure><p>出てきた文を、元の文と読み比べてみてください。使える所と、言い回しが違うなと思う所が、両方あると思います。その感覚が、研修で大事になります。</p><h2>3つ目　表を作ってもらう</h2><p>このまま送って大丈夫です。やることは、ご自身のものに書き換えてもOK（名前や金額は入れない）。</p><pre><code>今月やることを、表にして。
+よろしくお願いします。</code></pre><p>こんな返事が出れば、成功です。<br>（言い回しは、毎回少し変わります）</p><figure><img src="https://mm738966m-boop.github.io/ai-aibou-shindan/kenshu0/img/z_reply_mail.png"></figure><p>出てきた文を、元の文と読み比べてみてください。<br>使える所と、言い回しが違うなと思う所。<br>その両方に気づく感覚が、研修で大事になります。</p><h2>3つ目　今月やることを、表にしてもらう</h2><p>このまま送って大丈夫です。<br>やることは、ご自身のものに書き換えてもOK（名前や金額は入れない）。</p><pre><code>今月やることを、表にして。
 
 請求書を送る
 会議の資料を作る
-交通費をまとめる</code></pre><figure><img src="https://mm738966m-boop.github.io/ai-aibou-shindan/kenshu0/img/z_reply_table.png"></figure><p>表の形で返ってきます。返事の下の「コピー」（❶）を押すか、表をなぞってコピーすれば、ExcelやGoogleスプレッドシートのマス目に貼り付けられます。</p><h2>思った答えと違うときは</h2><ul><li><p>長すぎたら、同じ入力欄に「もっと短く」と書いて送る</p></li><li><p>言い回しが違うと思ったら、「もっとやわらかい言い方に変えて」と送る</p></li><li><p>1回で決めようとせず、会話を続けるのがコツです。人に頼むときと同じで、2回、3回とやり取りするうちに、欲しいものに近づきます</p></li></ul><p>次は最後の「④ パソコンにアプリを入れて、Codeを見てみる」へ。<br><a href="https://kinyu-ai-college.vibely.site/courses/28f53777-6b4c-4595-ad7b-767341ede3ba/chapters/e9b620d9-7096-4350-abbc-97b68354cb49">https://kinyu-ai-college.vibely.site/courses/28f53777-6b4c-4595-ad7b-767341ede3ba/chapters/e9b620d9-7096-4350-abbc-97b68354cb49</a></p>
+交通費をまとめる</code></pre><p>こんな表で返ってきます。</p><figure><img src="https://mm738966m-boop.github.io/ai-aibou-shindan/kenshu0/img/z_reply_table.png"></figure><p>返事の下の ❶「コピー」のマークを押すと、表ごとコピーできます。<br>ExcelやGoogleスプレッドシートのマス目に、そのまま貼り付けられます。</p><p>※「スプレッドシートを作成」などのボタンが出ることがありますが、<strong>今は押さなくてOK</strong>です。</p><h2>思った答えと違うときは</h2><ul><li><p>長すぎたら<br>同じ入力欄に「もっと短く」と書いて送る</p></li><li><p>言い回しが違うと思ったら<br>「もっとやわらかい言い方に変えて」と送る</p></li></ul><p>1回で決めようとせず、会話を続けるのがコツです。<br>人に頼むときと同じで、2回、3回とやり取りするうちに、欲しいものに近づきます。</p><h2>次へ</h2><p>③はここまでです。<br>次は最後の「④ パソコンにアプリを入れて、Codeを見てみる」です。</p><p><a href="https://kinyu-ai-college.vibely.site/courses/28f53777-6b4c-4595-ad7b-767341ede3ba/chapters/e9b620d9-7096-4350-abbc-97b68354cb49">https://kinyu-ai-college.vibely.site/courses/28f53777-6b4c-4595-ad7b-767341ede3ba/chapters/e9b620d9-7096-4350-abbc-97b68354cb49</a></p>
